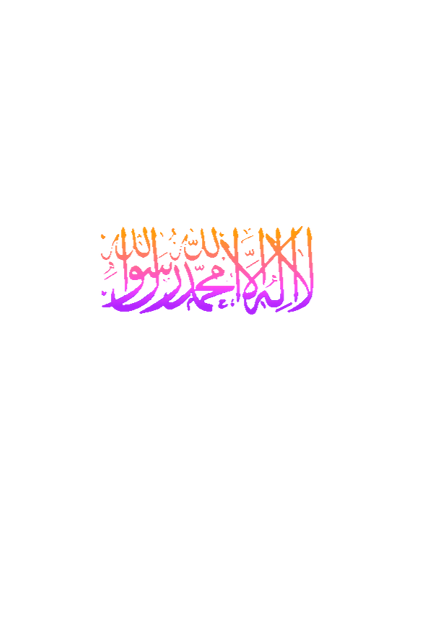
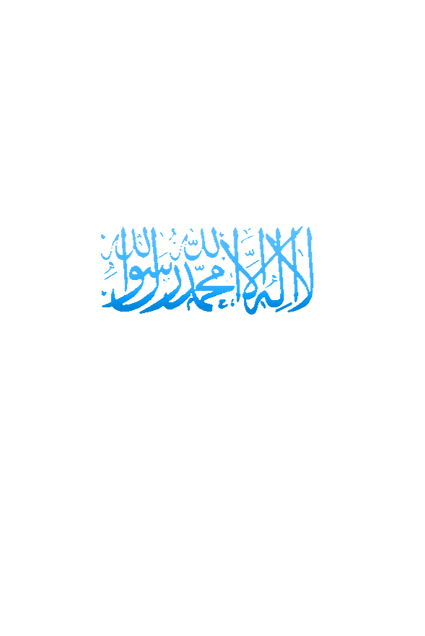
0.2.0 update

Changed region(s): [[0.2447, 0.3585, 0.7647, 0.5079]]

diff --git a/css/index.css b/css/index.css
@@ -3,11 +3,11 @@
   --card-width: calc(var(--card-height) / 1.5);
 }
 a{
-  color:#ff7;
+  color:rgba(11,109,233,1);
 }
 body {
   white-space: normal;
-  font-size: 22px;
+  font-size: 16px;
   display: flex;
   flex-direction: column;
   min-height: 100vh;
@@ -17,7 +17,7 @@ body {
   background-color: #fff;
   color: #fff;
   max-width: 100%;
-  background-color: #9CFFFF;
+  background-color: #111319;
 
 }
 .text {
@@ -33,14 +33,14 @@ img {
   height: auto;
 }
 .start-page{
-  background-image: url("../images/backgrounds/Startpage.png");
   background-repeat: no-repeat;
   background-size: 100% auto;
 }
 header {
   background-image: linear-gradient(to bottom, rgba(0, 0, 0, 0.8), rgba(0, 0, 0, 0.0)); /* Gradient background */
-  color: #000;
+  color: #fff;
   padding: 20px;
+  font-size: 16px;
 }
 
 nav ul {
@@ -88,7 +88,7 @@ footer {
   width: 130px;
   height: 40px;
   color: #fff;
-  border-radius: 5px;
+  border-radius: 0px;
   padding: 10px 25px;
   font-family: 'Lato', sans-serif;
   font-weight: 500;
@@ -101,10 +101,11 @@ footer {
    7px 7px 20px 0px rgba(0,0,0,.1),
    4px 4px 5px 0px rgba(0,0,0,.1);
   outline: none;
+  font-size: 22px;
 }
 /* 7 */
 .btn-7 {
-background: linear-gradient(0deg, rgba(255,151,0,1) 0%, rgba(251,75,2,1) 100%);
+background: linear-gradient(0deg, rgba(11,109,233,1) 0%, rgba(50,137,253,1) 100%);
   line-height: 42px;
   padding: 0;
   border: none;
@@ -121,7 +122,7 @@ background: linear-gradient(0deg, rgba(255,151,0,1) 0%, rgba(251,75,2,1) 100%);
   content: "";
   right: 0;
   bottom: 0;
-  background: rgba(251,75,2,1);
+  background: rgba(11,109,233,1);
   transition: all 0.3s ease;
 }
 .btn-7:before{
@@ -133,7 +134,7 @@ background: linear-gradient(0deg, rgba(255,151,0,1) 0%, rgba(251,75,2,1) 100%);
   height: 2px;
 }
 .btn-7:hover{
-  color: rgba(251,75,2,1);
+  color: rgba(11,109,233,1);
   background: transparent;
 }
 .btn-7:hover:before {
@@ -148,7 +149,7 @@ background: linear-gradient(0deg, rgba(255,151,0,1) 0%, rgba(251,75,2,1) 100%);
   content: "";
   left: 0;
   top: 0;
-  background: rgba(251,75,2,1);
+  background: rgba(11,109,233,1);
   transition: all 0.3s ease;
 }
 .btn-7 span:before {
@@ -166,14 +167,15 @@ background: linear-gradient(0deg, rgba(255,151,0,1) 0%, rgba(251,75,2,1) 100%);
   width: 100%;
 }
 #force-scroll{
-  margin-bottom: 50%;
-  text-align: right;
+  margin-bottom: 25%;
+  text-align: center;
+  font-size: 24px;
 }
 .card {
   display: flex;
   justify-content: center;
   align-items: center;
-  background: rgb(235 237 244 / 60%);
+  background: rgb(235 237 244 / 25%);
   width: var(--card-width);
   height: var(--card-height);
   padding: 4px;
@@ -188,10 +190,8 @@ background: linear-gradient(0deg, rgba(255,151,0,1) 0%, rgba(251,75,2,1) 100%);
   border: 1px solid white;
   box-shadow: 0 0 10px 5px rgba(255, 255, 255, 0.2);
   font-weight: bold;
-  color: orange;
-  text-stroke: 2px black;
-  -webkit-text-stroke: 1px black; /* For better browser compatibility */
-  text-shadow: 0 0 5px purple;
+  color: #5Ed5FF;
+  text-shadow: 0 0 5px #3EB5FF;
   text-transform: uppercase;
   flex-direction: column;
 }
@@ -202,8 +202,8 @@ background: linear-gradient(0deg, rgba(255,151,0,1) 0%, rgba(251,75,2,1) 100%);
 }
 
 .card:hover {
-  opacity: 0.7;
-  transition: 2s;
+  opacity: 0.5;
+  transition: 0.5s;
   border: 1px solid white;
   box-shadow: 0 0 10px 5px rgba(255, 255, 255, 0.2);
 }
@@ -291,6 +291,8 @@ a {
 }
 
 #search-form {
+    align-self: right;
+    align-content: right;
     display: flex;
     align-items: center;
     width: 100%; /* Make the input fill out the width */

diff --git a/css/cards.css b/css/cards.css
@@ -9,9 +9,8 @@ body {
   margin: 0;
   padding: 0;
   font-family: Arial, sans-serif;
-  background-image: url("../images/backgrounds/Startpage-3.png");
   color: #fff;
-  background-color: fff;
+  background-color: #111319;
 }
 header {
   background-image: linear-gradient(to bottom, rgba(0, 0, 0, 0.8), rgba(0, 0, 0, 0.0)); /* Gradient background */
@@ -54,7 +53,7 @@ footer {
   width: 130px;
   height: 40px;
   color: #fff;
-  border-radius: 5px;
+  border-radius: 0px;
   padding: 10px 25px;
   font-family: 'Lato', sans-serif;
   font-weight: 500;
@@ -67,10 +66,11 @@ footer {
    7px 7px 20px 0px rgba(0,0,0,.1),
    4px 4px 5px 0px rgba(0,0,0,.1);
   outline: none;
+  font-size: 22px;
 }
 /* 7 */
 .btn-7 {
-background: linear-gradient(0deg, rgba(255,151,0,1) 0%, rgba(251,75,2,1) 100%);
+background: linear-gradient(0deg, rgba(11,109,233,1) 0%, rgba(50,137,253,1) 100%);
   line-height: 42px;
   padding: 0;
   border: none;
@@ -87,7 +87,7 @@ background: linear-gradient(0deg, rgba(255,151,0,1) 0%, rgba(251,75,2,1) 100%);
   content: "";
   right: 0;
   bottom: 0;
-  background: rgba(251,75,2,1);
+  background: rgba(11,109,233,1);
   transition: all 0.3s ease;
 }
 .btn-7:before{
@@ -99,7 +99,7 @@ background: linear-gradient(0deg, rgba(255,151,0,1) 0%, rgba(251,75,2,1) 100%);
   height: 2px;
 }
 .btn-7:hover{
-  color: rgba(251,75,2,1);
+  color: rgba(11,109,233,1);
   background: transparent;
 }
 .btn-7:hover:before {
@@ -114,7 +114,7 @@ background: linear-gradient(0deg, rgba(255,151,0,1) 0%, rgba(251,75,2,1) 100%);
   content: "";
   left: 0;
   top: 0;
-  background: rgba(251,75,2,1);
+  background: rgba(11,109,233,1);
   transition: all 0.3s ease;
 }
 .btn-7 span:before {
@@ -141,7 +141,7 @@ background: linear-gradient(0deg, rgba(255,151,0,1) 0%, rgba(251,75,2,1) 100%);
   display: flex;
   justify-content: center !important;
   align-items: left !important;
-  background: rgb(235 237 244 / 60%);
+  background: rgb(235 237 244 / 25%);
   width: var(--card-width);
   height: var(--card-height);
   padding: 4px;
@@ -157,10 +157,8 @@ background: linear-gradient(0deg, rgba(255,151,0,1) 0%, rgba(251,75,2,1) 100%);
   border: 1px solid white;
   box-shadow: 0 0 10px 5px rgba(255, 255, 255, 0.2);
   font-weight: bold;
-  color: orange;
-  text-stroke: 1px black;
-  -webkit-text-stroke: 1px black;
-  text-shadow: 0 0 10px purple;
+  color: #5Ed5FF;
+  text-shadow: 0 0 5px #3EB5FF;
   text-transform: uppercase;
   flex-direction: column;
 }

diff --git a/css/content.css b/css/content.css
@@ -3,7 +3,7 @@
   --card-width: calc(var(--card-height) / 1.5);
 }
 a{
-  color:#ff7;
+  color:rgba(50,137,253,1);
 }
 body {
   white-space: normal;
@@ -66,7 +66,7 @@ footer {
   width: 130px;
   height: 40px;
   color: #fff;
-  border-radius: 5px;
+  border-radius: 0px;
   padding: 10px 25px;
   font-family: 'Lato', sans-serif;
   font-weight: 500;
@@ -79,10 +79,11 @@ footer {
    7px 7px 20px 0px rgba(0,0,0,.1),
    4px 4px 5px 0px rgba(0,0,0,.1);
   outline: none;
+  font-size: 22px;
 }
 /* 7 */
 .btn-7 {
-background: linear-gradient(0deg, rgba(255,151,0,1) 0%, rgba(251,75,2,1) 100%);
+background: linear-gradient(0deg, rgba(11,109,233,1) 0%, rgba(50,137,253,1) 100%);
   line-height: 42px;
   padding: 0;
   border: none;
@@ -99,7 +100,7 @@ background: linear-gradient(0deg, rgba(255,151,0,1) 0%, rgba(251,75,2,1) 100%);
   content: "";
   right: 0;
   bottom: 0;
-  background: rgba(251,75,2,1);
+  background: rgba(11,109,233,1);
   transition: all 0.3s ease;
 }
 .btn-7:before{
@@ -111,7 +112,7 @@ background: linear-gradient(0deg, rgba(255,151,0,1) 0%, rgba(251,75,2,1) 100%);
   height: 2px;
 }
 .btn-7:hover{
-  color: rgba(251,75,2,1);
+  color: rgba(11,109,233,1);
   background: transparent;
 }
 .btn-7:hover:before {
@@ -126,7 +127,7 @@ background: linear-gradient(0deg, rgba(255,151,0,1) 0%, rgba(251,75,2,1) 100%);
   content: "";
   left: 0;
   top: 0;
-  background: rgba(251,75,2,1);
+  background: rgba(11,109,233,1);
   transition: all 0.3s ease;
 }
 .btn-7 span:before {
@@ -219,7 +220,7 @@ a {
 
 @media screen and (max-width: 1200px) {
   body {
-    font-size: 24px;
+    font-size: 28px;
   }
   :root {
     --card-height: 24vh;

diff --git a/css/shop.css b/css/shop.css
@@ -66,7 +66,7 @@ footer {
   width: 130px;
   height: 40px;
   color: #fff;
-  border-radius: 5px;
+  border-radius: 0px;
   padding: 10px 25px;
   font-family: 'Lato', sans-serif;
   font-weight: 500;
@@ -79,10 +79,11 @@ footer {
    7px 7px 20px 0px rgba(0,0,0,.1),
    4px 4px 5px 0px rgba(0,0,0,.1);
   outline: none;
+  font-size: 22px;
 }
 /* 7 */
 .btn-7 {
-background: linear-gradient(0deg, rgba(255,151,0,1) 0%, rgba(251,75,2,1) 100%);
+background: linear-gradient(0deg, rgba(11,109,233,1) 0%, rgba(50,137,253,1) 100%);
   line-height: 42px;
   padding: 0;
   border: none;
@@ -99,7 +100,7 @@ background: linear-gradient(0deg, rgba(255,151,0,1) 0%, rgba(251,75,2,1) 100%);
   content: "";
   right: 0;
   bottom: 0;
-  background: rgba(251,75,2,1);
+  background: rgba(11,109,233,1);
   transition: all 0.3s ease;
 }
 .btn-7:before{
@@ -111,7 +112,7 @@ background: linear-gradient(0deg, rgba(255,151,0,1) 0%, rgba(251,75,2,1) 100%);
   height: 2px;
 }
 .btn-7:hover{
-  color: rgba(251,75,2,1);
+  color: rgba(11,109,233,1);
   background: transparent;
 }
 .btn-7:hover:before {
@@ -126,7 +127,7 @@ background: linear-gradient(0deg, rgba(255,151,0,1) 0%, rgba(251,75,2,1) 100%);
   content: "";
   left: 0;
   top: 0;
-  background: rgba(251,75,2,1);
+  background: rgba(11,109,233,1);
   transition: all 0.3s ease;
 }
 .btn-7 span:before {
@@ -143,6 +144,7 @@ background: linear-gradient(0deg, rgba(255,151,0,1) 0%, rgba(251,75,2,1) 100%);
 .btn-7 span:hover:after {
   width: 100%;
 }
+
 #force-scroll{
   margin-bottom: 50%;
   text-align: right;

diff --git a/index.html b/index.html
@@ -10,7 +10,7 @@
 
 
   <header>
-    <h1>Version 0.1.1 (beta) <a href="https://discord.gg/ghN7TKm4Ws">JOIN OUR DISCORD</a></h1>
+
     <nav>
       <ul>
         <li><a href="index.html"><button class="custom-btn btn-7"><span>Home</span></button></a></li>
@@ -25,13 +25,14 @@
         </li>
       </ul>
     </nav>
+    <h1>Version 0.2.0 (beta) <a href="https://discord.gg/ghN7TKm4Ws">JOIN OUR DISCORD</a></h1>
   </header>
 
   <main>
 
       <div id="search-results"></div>
 
-    <h6 id="force-scroll">scroll down :)</h6>
+    <h6 id="force-scroll">Islamic Library <br> مكتبة إسلامية <br> <a href="#">⇓</a></h6>
 
     <div class="card-container">
       <a href="pages/muslim_mustknow.html" class="card-link"><div class="card card1">
